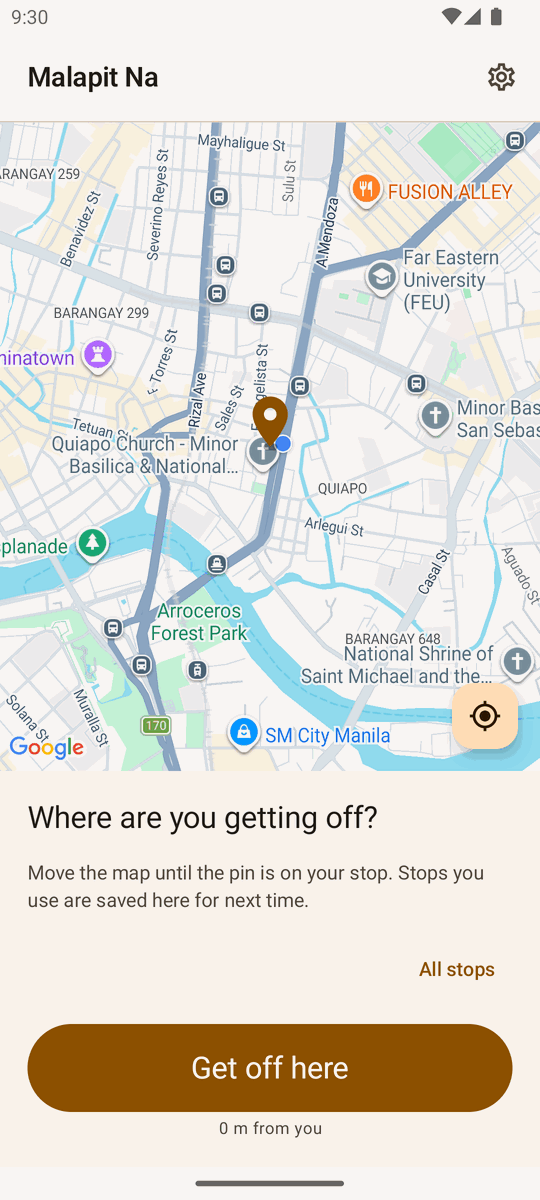
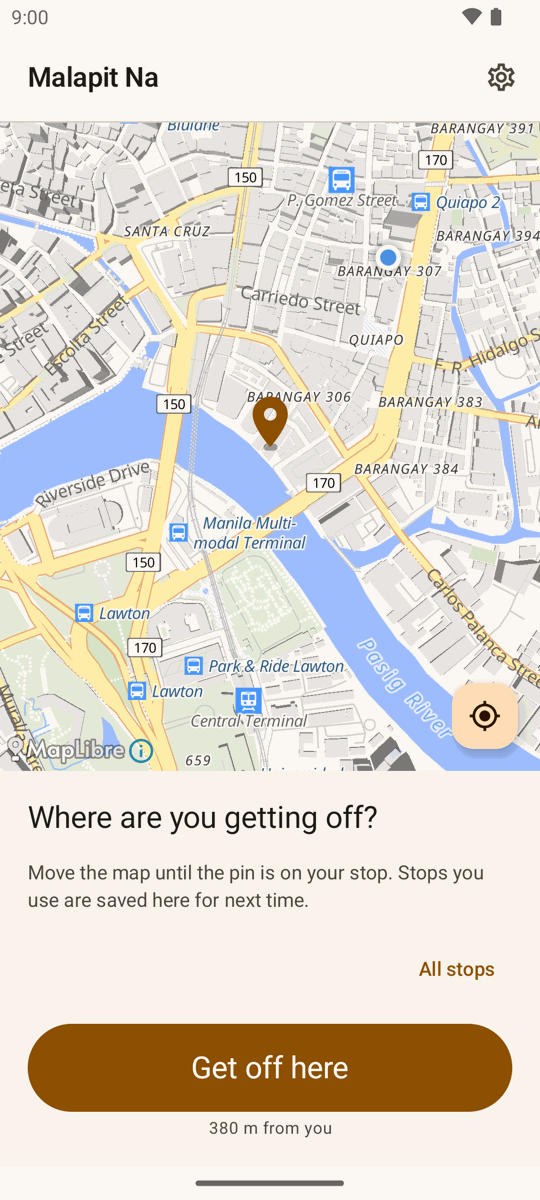
feat(assets): reshoot the gallery from shipped 1.2
The listing still showed the pre-1.1 app: Google's map tiles under the old
platform chrome, and a fourth screen whose only offline story was "the alarm
keeps counting on a blank map". Both stopped being true in 1.2, which moved the
map to OpenFreeMap and added downloadable packs, so the gallery was advertising
a version nobody can install any more.

Every frame is recaptured from a debug build of main at 1.2.0 on the ci-pixel
emulator, 1080x2400 with the status bar in demo mode, and halved to 540x1200
with the same octree palette the last reshoot settled on. Both locales are shot
at one zoom over the same blocks — Quiapo, Carriedo, Escolta, the Pasig, the
Lawton terminals — so the two galleries again show the same city at the same
scale.

The set grows to five because the offline story now takes two frames to tell:
downloading a pack is a deliberate act on Wi-Fi, and the payoff is a map that
still draws with the radio off. One screenshot could only show one of them. The
ride screen watches Antipolo rather than Quiapo: a destination 20.7 km away is
the only way to photograph an armed ride without an alarm firing mid-capture.

diff --git a/fil/index.html b/fil/index.html
@@ -137,11 +137,11 @@
     <section class="screens wrap">
       <div class="section-head">
         <span>Sa loob ng app</span>
-        <h2>Apat na screen. Isang trabaho.</h2>
+        <h2>Limang screen. Isang trabaho.</h2>
       </div>
       <div class="gallery" role="region" aria-label="Mga screenshot ng app" tabindex="0">
         <figure>
-          <img src="../assets/screenshots/fil-PH/01-piliin-ang-babaan-quiapo.png" width="540" height="1200" loading="lazy" decoding="async" alt="Mapa sa Quiapo, Maynila, na nagtatanong ng Saan ka bababa? na may butones na Dito ako bababa">
+          <img src="../assets/screenshots/fil-PH/01-piliin-ang-babaan-quiapo.png" width="540" height="1200" loading="lazy" decoding="async" alt="Mapa sa Quiapo, Maynila, na nagtatanong ng Saan ka bababa? na may butones na Dito ako bababa at nakasulat na 380 m mula sa iyo">
           <figcaption>I-pin kung saan ka bababa.</figcaption>
         </figure>
         <figure>
@@ -149,12 +149,16 @@
           <figcaption>Piliin ang sakay at ang layo ng alarm.</figcaption>
         </figure>
         <figure>
-          <img src="../assets/screenshots/fil-PH/03-aktibong-biyahe.png" width="540" height="1200" loading="lazy" decoding="async" alt="Screen ng biyahe na nakasulat na Binabantayan Quiapo, 3.3 km, at Matulog ka na">
+          <img src="../assets/screenshots/fil-PH/03-aktibong-biyahe.png" width="540" height="1200" loading="lazy" decoding="async" alt="Screen ng biyahe na nakasulat na Binabantayan Antipolo, 20.7 km, at Matulog ka na">
           <figcaption>Tingnan ang layo, o matulog na lang.</figcaption>
         </figure>
         <figure>
-          <img src="../assets/screenshots/fil-PH/04-walang-internet.png" width="540" height="1200" loading="lazy" decoding="async" alt="Screen ng biyahe na may mensaheng Walang internet — tuloy pa rin ang alarm. Gumagana ang GPS kahit walang data.">
-          <figcaption>Nawalan ng signal? Tuloy ang alarm.</figcaption>
+          <img src="../assets/screenshots/fil-PH/04-offline-na-mapa-download.png" width="540" height="1200" loading="lazy" decoding="async" alt="Setting ng offline na mapa na may Lugar ko, mga 40 MB, at Ruta ko, mga 95 MB, na puwedeng i-download">
+          <figcaption>I-save ang mapa nang minsanan, sa Wi-Fi.</figcaption>
+        </figure>
+        <figure>
+          <img src="../assets/screenshots/fil-PH/05-naka-save-na-mapa.png" width="540" height="1200" loading="lazy" decoding="async" alt="Mapa ng Maynila mula sa naka-save na pack sa ilalim ng banner na Walang internet — naka-save na mapa ang ipinapakita, gumagana pa rin ang alarm">
+          <figcaption>Nawalan ng signal? Tuloy ang mapa at ang alarm.</figcaption>
         </figure>
       </div>
     </section>
@@ -182,7 +186,7 @@
       </div>
       <div class="mini-gallery" role="region" aria-label="Mga screenshot sa English" tabindex="0">
         <img src="../assets/screenshots/en-US/01-pick-your-stop-quiapo-manila.png" width="540" height="1200" loading="lazy" decoding="async" alt="English map screen asking Where are you getting off? over Quiapo, Manila">
-        <img src="../assets/screenshots/en-US/03-riding-watching-distance.png" width="540" height="1200" loading="lazy" decoding="async" alt="English ride screen reading Watching for Quiapo, 3.1 km">
+        <img src="../assets/screenshots/en-US/03-riding-watching-distance.png" width="540" height="1200" loading="lazy" decoding="async" alt="English ride screen reading Watching for Antipolo, 20.7 km">
       </div>
     </section>
 

diff --git a/index.html b/index.html
@@ -137,11 +137,11 @@
     <section class="screens wrap">
       <div class="section-head">
         <span>Inside the app</span>
-        <h2>Four screens. One job.</h2>
+        <h2>Five screens. One job.</h2>
       </div>
       <div class="gallery" role="region" aria-label="App screenshots" tabindex="0">
         <figure>
-          <img src="assets/screenshots/en-US/01-pick-your-stop-quiapo-manila.png" width="540" height="1200" loading="lazy" decoding="async" alt="Map centred on Quiapo, Manila, asking Where are you getting off? with a Get off here button">
+          <img src="assets/screenshots/en-US/01-pick-your-stop-quiapo-manila.png" width="540" height="1200" loading="lazy" decoding="async" alt="Map centred on Quiapo, Manila, asking Where are you getting off? with a Get off here button and the line 380 m from you">
           <figcaption>Pin the stop where you are getting off.</figcaption>
         </figure>
         <figure>
@@ -149,12 +149,16 @@
           <figcaption>Choose your ride and the alarm distance.</figcaption>
         </figure>
         <figure>
-          <img src="assets/screenshots/en-US/03-riding-watching-distance.png" width="540" height="1200" loading="lazy" decoding="async" alt="Ride screen reading Watching for Quiapo, 3.1 km, alarm at 500 m to go, and You can sleep">
+          <img src="assets/screenshots/en-US/03-riding-watching-distance.png" width="540" height="1200" loading="lazy" decoding="async" alt="Ride screen reading Watching for Antipolo, 20.7 km, alarm at 500 m to go, and You can sleep">
           <figcaption>Watch the distance, or sleep through it.</figcaption>
         </figure>
         <figure>
-          <img src="assets/screenshots/en-US/04-offline-alarm-still-on.png" width="540" height="1200" loading="lazy" decoding="async" alt="Ride screen with the message No internet — alarm still on. GPS works without data.">
-          <figcaption>Lost signal? The alarm carries on.</figcaption>
+          <img src="assets/screenshots/en-US/04-offline-maps-download.png" width="540" height="1200" loading="lazy" decoding="async" alt="Offline maps settings offering My area, about 40 MB, and My route, about 95 MB, to download">
+          <figcaption>Save the map once, on Wi-Fi.</figcaption>
+        </figure>
+        <figure>
+          <img src="assets/screenshots/en-US/05-offline-saved-map.png" width="540" height="1200" loading="lazy" decoding="async" alt="Map of Manila drawn from the saved pack under the banner No internet — showing the saved map, your alarm still works">
+          <figcaption>Lost signal? The map and the alarm carry on.</figcaption>
         </figure>
       </div>
     </section>
@@ -182,7 +186,7 @@
       </div>
       <div class="mini-gallery" role="region" aria-label="Filipino screenshots" tabindex="0">
         <img src="assets/screenshots/fil-PH/01-piliin-ang-babaan-quiapo.png" width="540" height="1200" loading="lazy" decoding="async" alt="Filipino map screen asking Saan ka bababa? over Quiapo, Manila">
-        <img src="assets/screenshots/fil-PH/03-aktibong-biyahe.png" width="540" height="1200" loading="lazy" decoding="async" alt="Filipino ride screen reading Binabantayan Quiapo, 3.3 km">
+        <img src="assets/screenshots/fil-PH/03-aktibong-biyahe.png" width="540" height="1200" loading="lazy" decoding="async" alt="Filipino ride screen reading Binabantayan Antipolo, 20.7 km">
       </div>
     </section>
 
